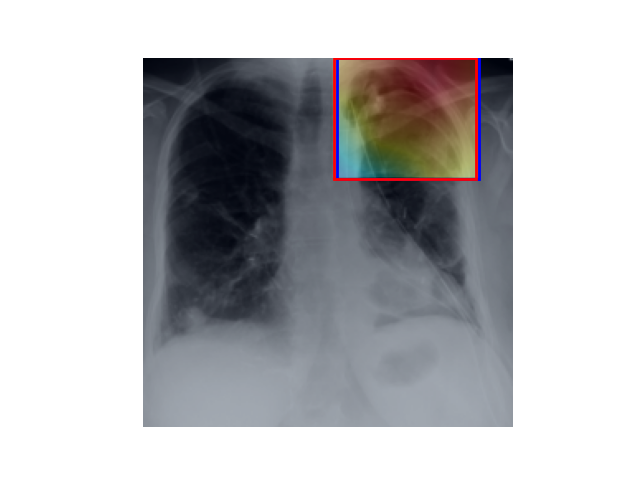
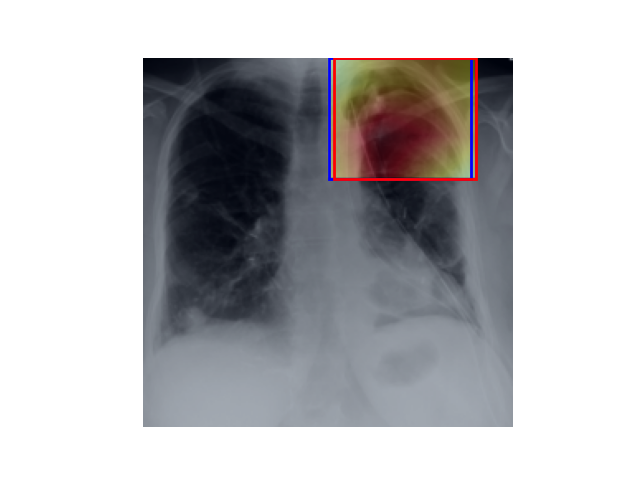
fjs

Changed region(s): [[0.5, 0.125, 0.75, 0.375]]

diff --git a/version/Mainv0.17.py b/version/Mainv0.17.py
@@ -10,7 +10,6 @@ import os
 import cv2
 import time
 import argparse
-import copy
 import numpy as np
 import torch
 import torch.nn as nn
@@ -19,13 +18,12 @@ from torch.optim import lr_scheduler
 import torch.optim as optim
 import torchvision
 from skimage.measure import label
-import torchvision.ops as ops
+ 
 #self-defined
 from ChestXRay8 import get_train_dataloader, get_validation_dataloader, get_test_dataloader, get_bbox_dataloader
 from Utils.Evaluation import compute_AUCs, compute_ROCCurve, compute_IoUs
 from Utils.CAM import CAM
 from Models.CVTEDRNet import CVTEDRNet
-from RPN.RPN import RegionProposalNetwork
 
 #command parameters
 parser = argparse.ArgumentParser(description='For ChestXRay')
@@ -38,10 +36,9 @@ CLASS_NAMES = ['Atelectasis', 'Cardiomegaly', 'Effusion', 'Infiltration', 'Mass'
                'Pneumothorax', 'Consolidation', 'Edema', 'Emphysema', 'Fibrosis', 'Pleural_Thickening', 'Hernia']
 N_CLASSES = len(CLASS_NAMES)
 MAX_EPOCHS = 20
-BATCH_SIZE = 20#256 + 256
-ROI_CROP = 112
+BATCH_SIZE = 256 + 256
 
-def Train(CKPT_PATH=''):
+def Train():
     print('********************load data********************')
     dataloader_train = get_train_dataloader(batch_size=BATCH_SIZE, shuffle=True, num_workers=8)
     dataloader_val = get_validation_dataloader(batch_size=BATCH_SIZE, shuffle=False, num_workers=8)
@@ -54,70 +51,51 @@ def Train(CKPT_PATH=''):
     else: 
         print('No required model')
         return #over
-    if os.path.isfile(CKPT_PATH):
-        checkpoint = torch.load(CKPT_PATH)
-        model.load_state_dict(checkpoint) #strict=False
-        print("=> loaded model checkpoint: "+CKPT_PATH)
-    model_conv = copy.deepcopy(model) #for get convolutional feature
+
     model = nn.DataParallel(model).cuda()  # make model available multi GPU cores training
     torch.backends.cudnn.benchmark = True  # improve train speed slightly
     bce_criterion = nn.BCELoss() #define binary cross-entropy loss
     optimizer = optim.Adam(model.parameters(), lr=1e-3, betas=(0.9, 0.999), eps=1e-08, weight_decay=1e-5)
     lr_scheduler_model = lr_scheduler.StepLR(optimizer, step_size = 10, gamma = 1)
-
-    RPNModel = RegionProposalNetwork(1024, 1024, ratios=[0.5, 1, 2], anchor_scales=[8, 16, 32], feat_stride=16).cuda()
-    roi_align = RoIAlign(ROI_CROP, ROI_CROP)
     print('********************load model succeed!********************')
 
     print('********************begin training!********************')
     AUROC_best = 0.50
+    CKPT_PATH = '' #path for pre-trained model
     for epoch in range(MAX_EPOCHS):
         since = time.time()
         print('Epoch {}/{}'.format(epoch+1 , MAX_EPOCHS))
         print('-' * 10)
         model.train()  #set model to training mode
-        model_conv.eval() 
         train_loss = []
         with torch.autograd.enable_grad():
             for batch_idx, (image, label) in enumerate(dataloader_train):  
                 var_image = torch.autograd.Variable(image).cuda()
                 var_label = torch.autograd.Variable(label).cuda()
-                var_feature = model_conv.dense_net_121.features(var_image) #get feature maps
-
-                h, w = image.shape[2:]
-                _, _, rois, roi_indices, _ = RPNModel(var_feature, [h, w])
-                var_crops = roi_align(var_image, torch.from_numpy(rois).cuda(), torch.from_numpy(roi_indices).cuda()) #
-
                 optimizer.zero_grad()
-                var_output = model(var_crops)#forward
-                loss_tensor = bce_criterion(var_output, var_label[roi_indices]) 
+                var_output = model(var_image)#forward
+                loss_tensor = bce_criterion(var_output, var_label) 
                 loss_tensor.backward() 
                 optimizer.step()##update parameters    
                 #print([x.grad for x in optimizer.param_groups[0]['params']])
                 sys.stdout.write('\r Epoch: {} / Step: {} : train loss = {}'.format(epoch+1, batch_idx+1, float('%0.6f'%loss_tensor.item()) ))
                 sys.stdout.flush()
                 train_loss.append(loss_tensor.item())
-        lr_scheduler_model.step()  #about lr and gamma
-        print("\r Eopch: %5d train loss = %.6f" % (epoch + 1, np.mean(train_loss)))
+        print("\r Eopch: %5d train loss = %.6f" % (epoch + 1, np.mean(train_loss))) 
 
-        model.eval()
+        model.eval()#turn to test mode
         val_loss = []
         gt = torch.FloatTensor().cuda()
         pred = torch.FloatTensor().cuda()
         with torch.autograd.no_grad():
             for batch_idx, (image, label) in enumerate(dataloader_val):
+                label = label.cuda()
+                gt = torch.cat((gt, label), 0)
                 var_image = torch.autograd.Variable(image).cuda()
                 var_label = torch.autograd.Variable(label).cuda()
-                var_feature = model_conv.dense_net_121.features(var_image) #get feature maps
-
-                h, w = image.shape[2:]
-                _, _, rois, roi_indices, _ = RPNModel(var_feature, [h, w])
-                var_crops = roi_align(var_image, torch.from_numpy(rois).cuda(), torch.from_numpy(roi_indices).cuda())
-                
-                var_output = model(var_crops)#forward
+                var_output = model(var_image)#forward
                 pred = torch.cat((pred, var_output.data), 0)
-                loss_tensor = bce_criterion(var_output, var_label[roi_indices]) 
-                gt = torch.cat((gt, var_label[roi_indices]), 0)
+                loss_tensor = bce_criterion(var_output, var_label) 
                 sys.stdout.write('\r Epoch: {} / Step: {} : validation loss ={}'.format(epoch+1, batch_idx+1, float('%0.6f'%loss_tensor.item()) ))
                 sys.stdout.flush()
                 val_loss.append(loss_tensor.item())
@@ -128,11 +106,12 @@ def Train(CKPT_PATH=''):
         #save checkpoint
         if AUROC_best < AUROC_avg:
             AUROC_best = AUROC_avg
-            CKPT_PATH = './Pre-trained/'+ args.model +'/best_model_roi.pkl'
+            CKPT_PATH = './Pre-trained/'+ args.model +'/best_model.pkl'
             #torch.save(model.state_dict(), CKPT_PATH)
-            torch.save(model.module.state_dict(), CKPT_PATH_ROI) #Saving torch.nn.DataParallel Models
+            torch.save(model.module.state_dict(), CKPT_PATH) #Saving torch.nn.DataParallel Models
             print(' Epoch: {} model has been already save!'.format(epoch+1))
-        
+
+        lr_scheduler_model.step()  #about lr and gamma
         time_elapsed = time.time() - since
         print('Training epoch: {} completed in {:.0f}m {:.0f}s'.format(epoch+1, time_elapsed // 60 , time_elapsed % 60))
     return CKPT_PATH
@@ -149,11 +128,13 @@ def Test(CKPT_PATH = ''):
     else: 
         print('No required model')
         return #over
+
+    #model = nn.DataParallel(model).cuda()  # make model available multi GPU cores training
+    torch.backends.cudnn.benchmark = True  # improve train speed slightly
     if os.path.isfile(CKPT_PATH):
         checkpoint = torch.load(CKPT_PATH)
         model.load_state_dict(checkpoint) #strict=False
         print("=> loaded model checkpoint: "+CKPT_PATH)
-    torch.backends.cudnn.benchmark = True  # improve train speed slightly
     print('******************** load model succeed!********************')
 
     print('******* begin testing!*********')
@@ -186,7 +167,7 @@ def Test(CKPT_PATH = ''):
 
 def BoxTest(CKPT_PATH, thresholds):
     print('********************load data********************')
-    dataloader_bbox = get_bbox_dataloader(batch_size=1, shuffle=False, num_workers=0)
+    dataloader_test = get_test_dataloader(batch_size=BATCH_SIZE, shuffle=False, num_workers=8)
     print('********************load data succeed!********************')
 
     print('********************load model********************')
@@ -196,15 +177,19 @@ def BoxTest(CKPT_PATH, thresholds):
     else: 
         print('No required model')
         return #over
+
+    #model = nn.DataParallel(model).cuda()  # make model available multi GPU cores training
+    torch.backends.cudnn.benchmark = True  # improve train speed slightly
     if os.path.isfile(CKPT_PATH):
         checkpoint = torch.load(CKPT_PATH)
         model.load_state_dict(checkpoint) #strict=False
         print("=> loaded model checkpoint: "+CKPT_PATH)
-    torch.backends.cudnn.benchmark = True  # improve train speed slightly
     print('******************** load model succeed!********************')
 
     print('******* begin bounding box testing!*********')
+    #predict bounding box
     #np.set_printoptions(suppress=True) #to float
+    dataloader_bbox = get_bbox_dataloader(batch_size=1, shuffle=False, num_workers=0)
     cls_weights = list(model.parameters())
     #for name, layer in model.named_modules():
     #    print(name, layer)
@@ -235,10 +220,10 @@ def BoxTest(CKPT_PATH, thresholds):
     print('The average IoU is {:.4f}'.format(np.array(IoUs).mean()))
 
 def main():
-    CKPT_PATH ='./Pre-trained/'+ args.model +'/best_model-8215.pkl' #for debug
-    CKPT_PATH_ROI = Train(CKPT_PATH) #for training
-    thresholds = Test(CKPT_PATH_ROI) #for test
-    BoxTest(CKPT_PATH_ROI, thresholds)
+    CKPT_PATH = Train() #for training
+    #CKPT_PATH ='./Pre-trained/'+ args.model +'/best_model.pkl' #for debug
+    thresholds = Test(CKPT_PATH) #for test
+    BoxTest(CKPT_PATH, thresholds)
 
 if __name__ == '__main__':
     main()

diff --git a/Models/ROIGenerator.py b/Models/ROIGenerator.py
@@ -1,0 +1,96 @@
+# encoding: utf-8
+import numpy as np
+from os import listdir
+import skimage.transform
+import torch
+from torch.utils.data import Dataset, DataLoader
+from torch.nn import functional as F
+import torch.nn as nn
+import torch.backends.cudnn as cudnn
+import torchvision
+import torchvision.transforms as transforms
+from torch.autograd import Variable
+import torch.optim as optim
+from torch.autograd import Function
+from torchvision import models
+from torchvision import utils
+import cv2
+import sys
+import os
+import pickle
+from collections import defaultdict
+from collections import OrderedDict
+from PIL import Image, ImageDraw
+import PIL.ImageOps
+import skimage
+from skimage.io import *
+from skimage.transform import *
+
+import scipy
+import scipy.ndimage as ndimage
+import scipy.ndimage.filters as filters
+from scipy.ndimage import binary_dilation
+import matplotlib.patches as patches
+import matplotlib.pyplot as plt
+
+
+class ROIGenerator(object):
+    
+    def __init__(self, TRAN_SIZE, TRAN_CROP):
+        self.TRAN_SIZE = TRAN_SIZE
+        self.TRAN_CROP = TRAN_CROP
+        self.roi_pool = ops.RoIPool(output_size=(TRAN_CROP, TRAN_CROP), spatial_scale=1)
+
+    # generate class activation mapping for the predicted classed
+    def AnchorGen(self, feature_conv, weight_softmax, image, label): 
+        # generate the class activation maps upsample to 224x224
+        size_upsample = (self.TRAN_CROP, self.TRAN_CROP)
+        bz, nc, h, w = feature_conv.shape
+        rois, roi_labels = torch.FloatTensor(), torch.FloatTensor()
+        for i in range(bz):
+            idxs = np.where(label[i]==1)[0]
+            for idx in idxs:
+                cam = weight_softmax[idx].dot(feature_conv[i].reshape((nc,h*w)))
+                cam = cam.reshape(h, w)
+                cam = cam - np.min(cam)
+                cam_img = cam / np.max(cam)
+                cam_img = np.uint8(255 * cam_img)
+                cam_img = cv2.resize(cam_img, size_upsample)
+                x_c, y_c = self.returnBox(cam_img)
+                roi = self.roi_pool(image, [])
+
+                rois = torch.cat((rois, roi), 0)
+                roi_label =  np.zeros(len(label[i]))
+                roi_label[idx] = 1
+                roi_labels = torch.cat((roi_labels, torch.FloatTensor(roi_label)), 0)
+                    
+        return rois, roi_labels
+    
+    def returnBox(self, data): #predicted bounding boxes
+        # Find local maxima
+        neighborhood_size = 5 #10 #100
+        threshold = .1
+
+        data_max = filters.maximum_filter(data, neighborhood_size) #local maximum
+        maxima = (data == data_max)
+        data_min = filters.minimum_filter(data, neighborhood_size) #local minimum
+        diff = ((data_max - data_min) > threshold)
+        maxima[diff == 0] = 0
+        for _ in range(5):
+            maxima = binary_dilation(maxima) 
+        labeled, num_objects = ndimage.label(maxima)
+        #slices = ndimage.find_objects(labeled)
+        xy = np.array(ndimage.center_of_mass(data, labeled, range(1, num_objects+1)))
+        #return the hot points
+        x_c, y_c, data_xy = 0, 0, 0.0
+        for pt in xy:
+            if data[int(pt[0]), int(pt[1])] > data_xy:
+                data_xy = data[int(pt[0]), int(pt[1])]
+                x_c = int(pt[0])
+                y_c = int(pt[1]) 
+        return x_c, y_c
+
+
+if __name__ == "__main__":
+    #for debug   
+    pass
